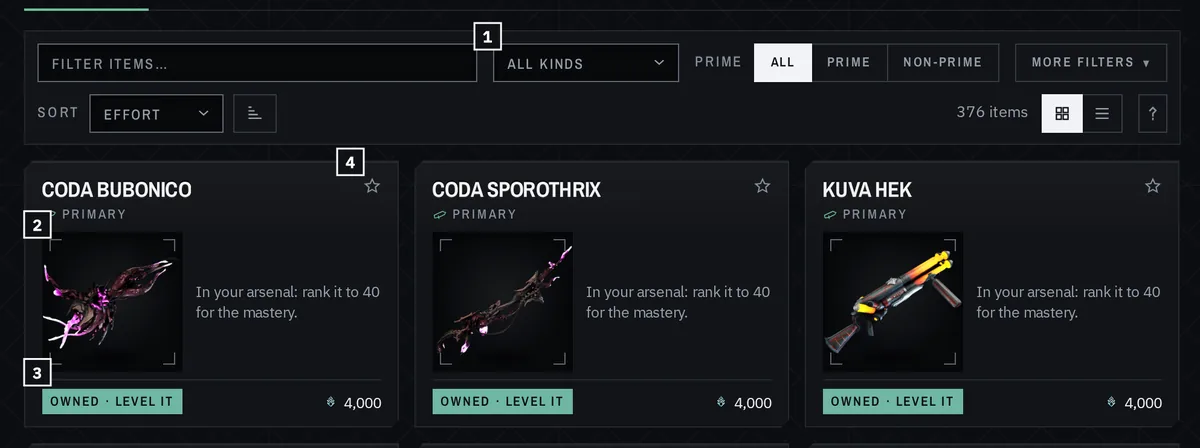
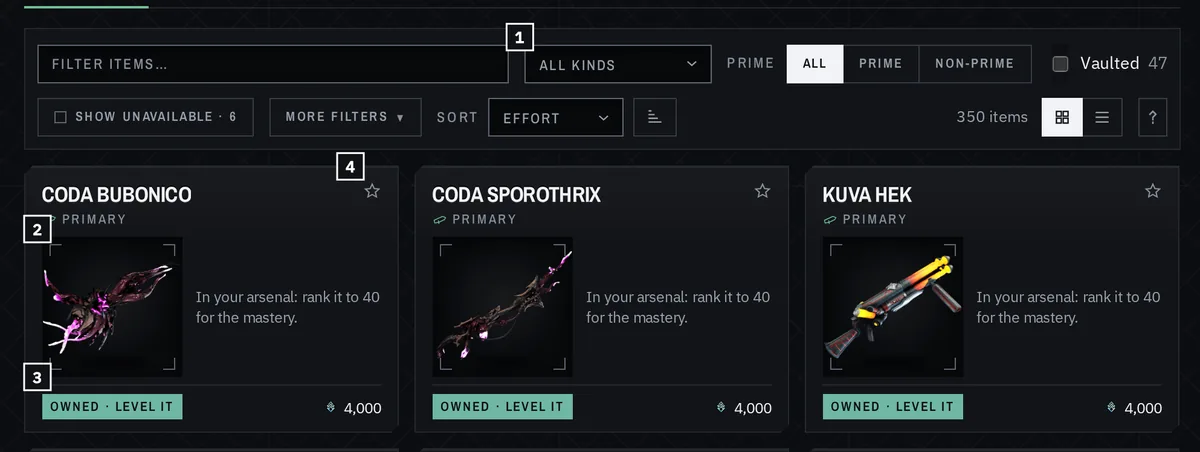
Mastery: Buy with plat keeps trade-only primes; help pictures retaken
What platinum buys includes a vaulted prime that can only be traded for,
so the plat view lists those rows whatever the Vaulted checkbox says, and
the checkbox shows only in Easiest first. The Mastery help's pictures are
taken again with the new filter row.

diff --git a/src/lib/tabs/Mastery.svelte b/src/lib/tabs/Mastery.svelte
@@ -124,7 +124,8 @@
   $effect(() => {
     if (shownPage("mastery") && !(drawnPlat && drawnEffort)) return whenIdle(() => inBackground(() => (drawnPlat = drawnEffort = true)));
   });
-  const platRows = $derived.by(keepWhile(() => view === "plat", () => rows));
+  // Buy with plat lists what platinum buys: a vaulted prime that can only be traded for is just that.
+  const platRows = $derived.by(keepWhile(() => view === "plat", () => all.filter((r) => (r.acq.available || r.acq.tradeOnly || showUnavailable) && fits(r))));
   const effortRows = $derived.by(keepWhile(() => view !== "plat", () => rows));
   const open = $derived(all.filter((r) => r.acq.available));
   const pts = (rs: MasteryRow[]) => rs.reduce((n, r) => n + r.points, 0);
@@ -269,7 +270,7 @@
   </select>
   <Seg label="Prime" bind:value={kind} options={[{ v: "all", label: "All", title: "Everything you haven't mastered" }, { v: "prime", label: "Prime", title: "Primes only: parts from relics or other players" }, { v: "normal", label: "Non-prime", title: "Everything else: the Market, drops, syndicates, the dojo…" }]} />
   <!-- In plain sight, each with how many it holds back (or adds) with the filters as they stand. -->
-  <label class="vaulted" title={`Vaulted primes you can only get by trading for a missing part: no relic in the drop tables, at Varzia or of yours drops it. ${vaultedCount} ${showVaulted ? "shown" : "held back"} with these filters. A vaulted prime you can build, or hold the relics for, is always listed.`}><input type="checkbox" bind:checked={showVaulted} />Vaulted <span class="n">{vaultedCount}</span></label>
+  {#if view !== "plat"}<label class="vaulted" title={`Vaulted primes you can only get by trading for a missing part: no relic in the drop tables, at Varzia or of yours drops it. ${vaultedCount} ${showVaulted ? "shown" : "held back"} with these filters. A vaulted prime you can build, or hold the relics for, is always listed.`}><input type="checkbox" bind:checked={showVaulted} />Vaulted <span class="n">{vaultedCount}</span></label>{/if}
   <Chip bind:on={showUnavailable} label={`Show unavailable · ${unavailableCount}`} title={`Founders items, past events and the like: things you can't get right now. ${unavailableCount} ${showUnavailable ? "shown" : "held back"} with these filters.`} />
   <Fold active={effort !== "all" ? 1 : 0} reset={() => (effort = "all")}>
     <Seg label="Effort" bind:value={effort} options={[{ v: "all", label: "All" }, { v: "2", label: "Easy", title: "Level it, buy and build, easy bosses" }, { v: "3", label: "Moderate", title: "Up to relics, quests, bounties and low syndicate ranks" }, { v: "4", label: "Hard", title: "Everything but Liches, Sisters, Coda and the nearly unobtainable" }]} />
